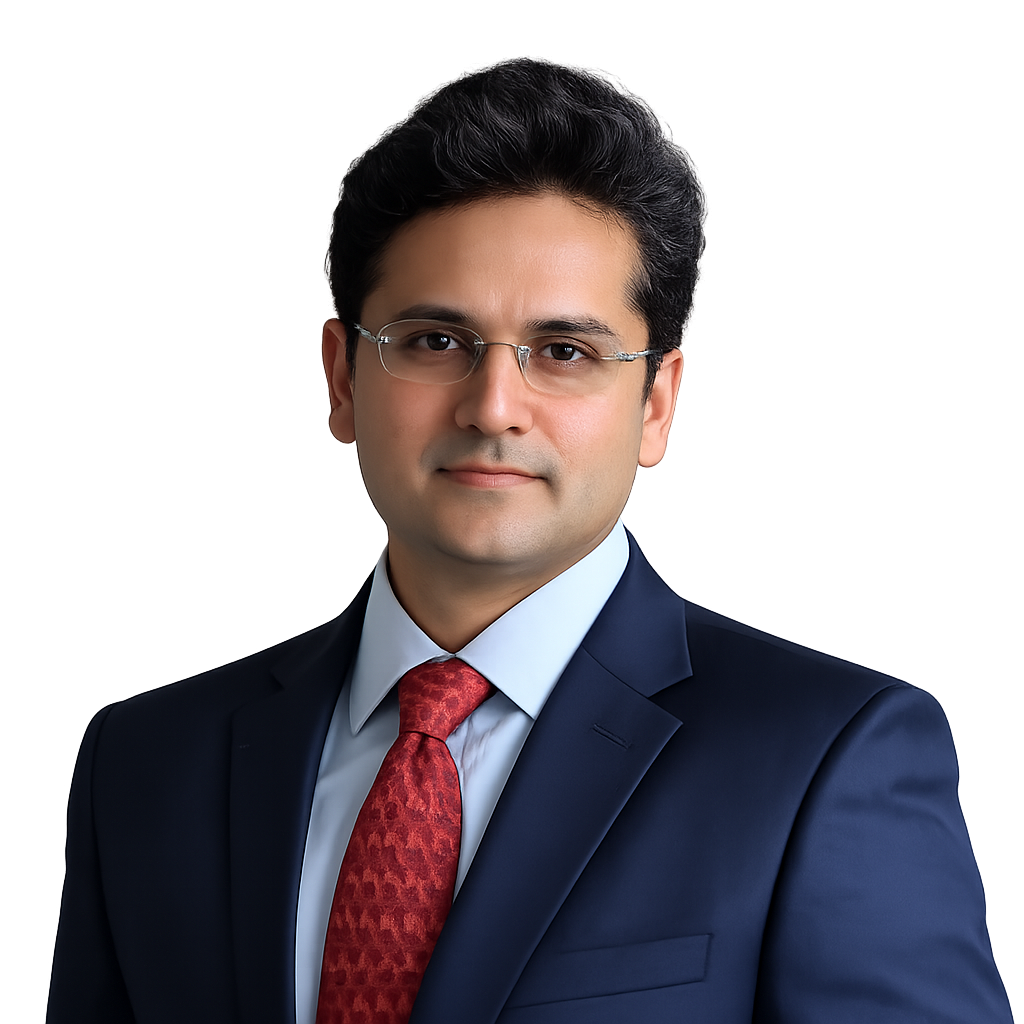
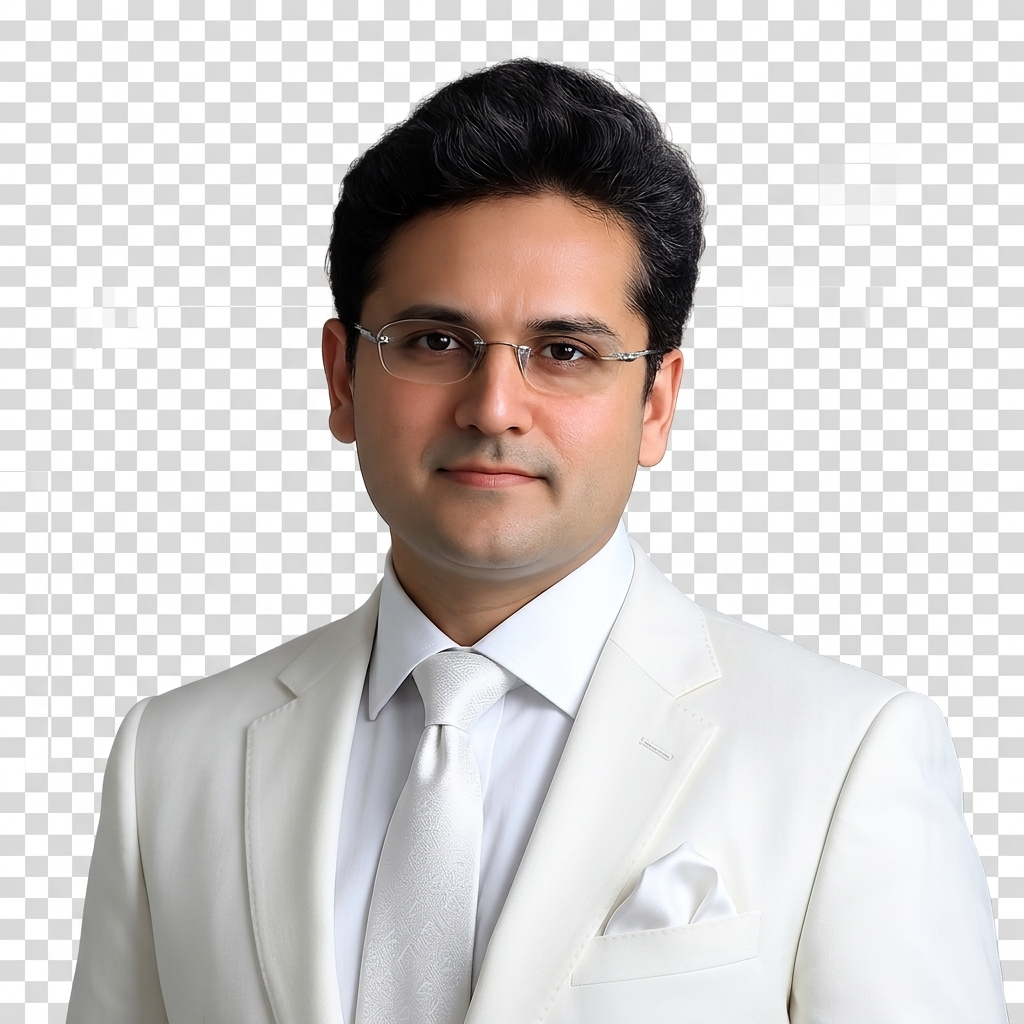
feat: add Shamika Ravi and Anand Ranganathan portraits and update review card gradient overlay

diff --git a/App.tsx b/App.tsx
@@ -545,7 +545,7 @@ In an age of information overload, anxiety and identity confusion, this book is 
                   alt={item.name} 
                   className="w-full h-full object-cover transition-transform duration-700 group-hover:scale-110"
                 />
-                <div className="absolute inset-0 bg-gradient-to-t from-maroon-dark/90 via-maroon-dark/20 to-transparent opacity-60 group-hover:opacity-40 transition-opacity" />
+                <div className="absolute inset-0 bg-gradient-to-t from-black/80 via-transparent to-transparent opacity-40 group-hover:opacity-30 transition-opacity" />
                 
                 <div className="absolute bottom-0 left-0 right-0 p-6 transform translate-y-2 group-hover:translate-y-0 transition-transform">
                    <p className="text-gold text-[10px] uppercase tracking-widest mb-2 font-bold opacity-0 group-hover:opacity-100 transition-opacity">Read Full Review</p>
